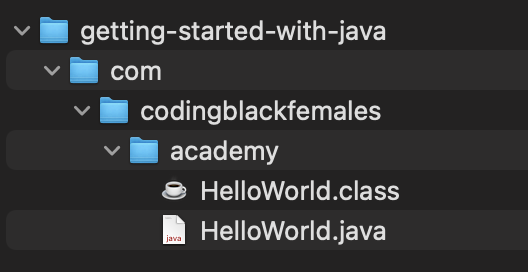
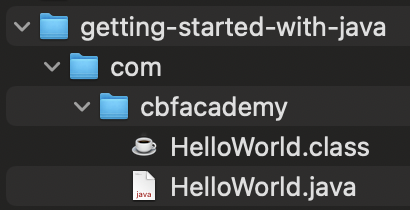
Update unit 1 exercise description

Changed region(s): [[0.0293, 0.0571, 0.9659, 0.7429], [0.2927, 0.7714, 0.878, 0.9714]]

diff --git a/exercises/getting-started/README.md b/exercises/getting-started/README.md
@@ -17,9 +17,8 @@ In your preferred working directory,
 - Inside this project folder:
     - create a sub-directory called **`com`**
     - inside the `com` directory, create a sub-directory called **`cbfacademy`**
-    - inside the `codingblackfemales` directory, create a sub-directory called **`academy`**
 
-- Inside that last sub-directory (`academy`), create a file called **`HelloWorld.java`**.
+- Inside that last sub-directory (`cbfacademy`), create a file called **`HelloWorld.java`**.
 
 At this point, our project folder structure looks as follows:
 
@@ -47,7 +46,7 @@ In your terminal, navigate to the `getting-started-with-java` project folder.
 Execute this command to **compile** our Java program
 
 ```bash
-javac com/codingblackfemales/academy/HelloWorld.java
+javac com/cbfacademy/HelloWorld.java
 ```
 
 A `HelloWorld.class` file is now created alongside our Java source.
